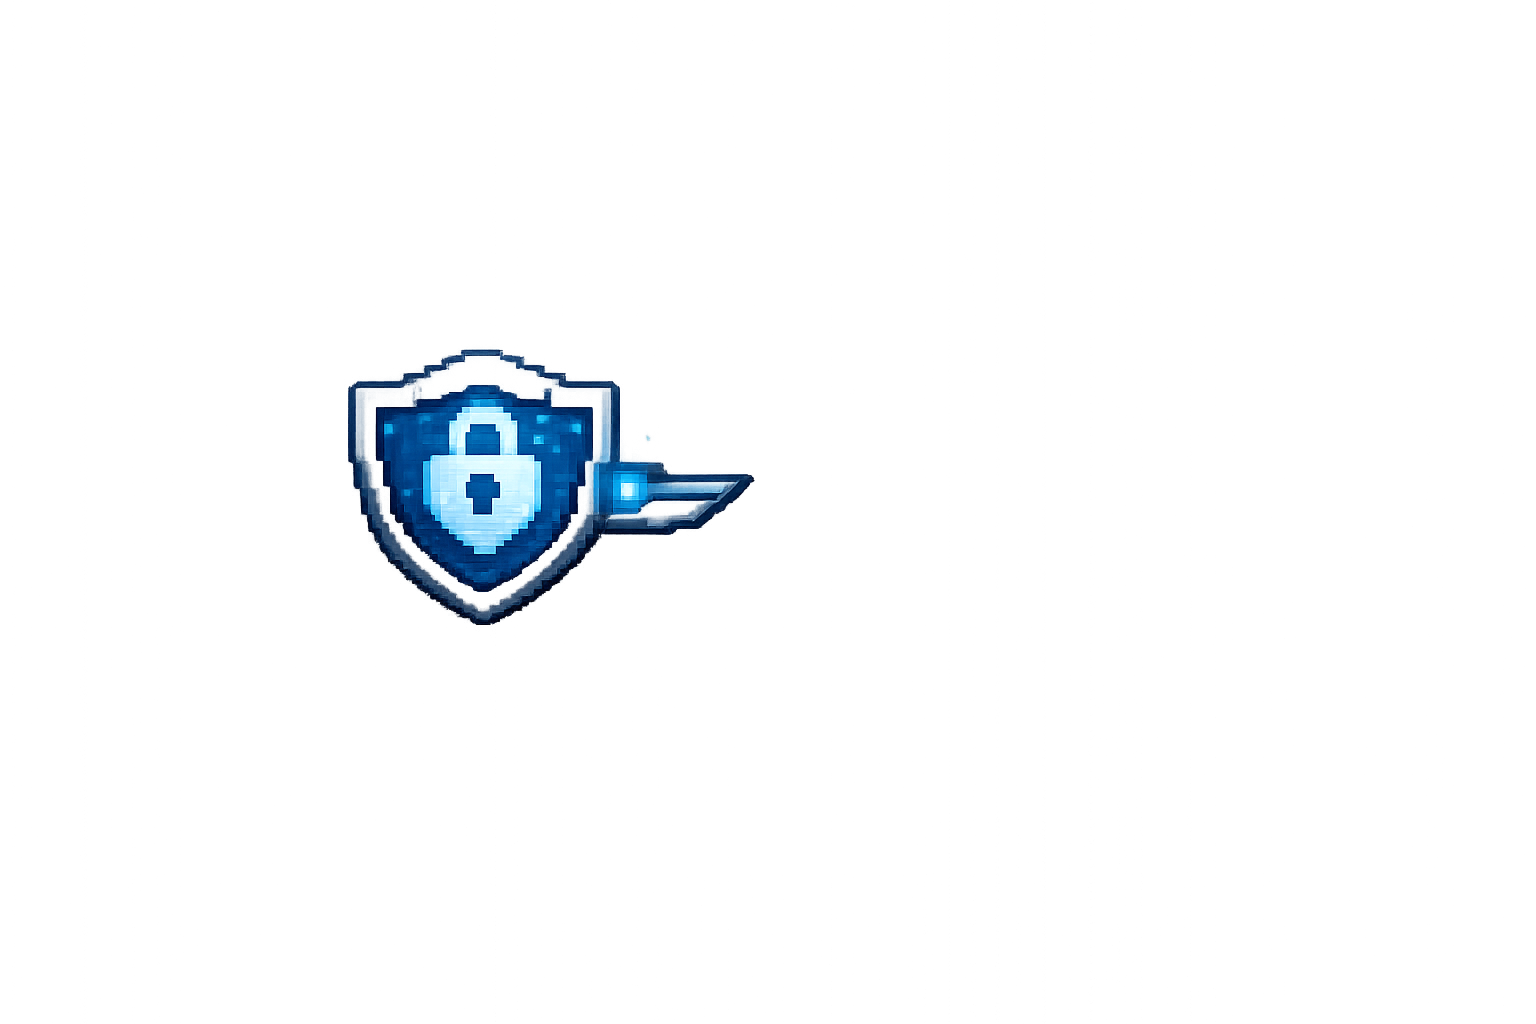
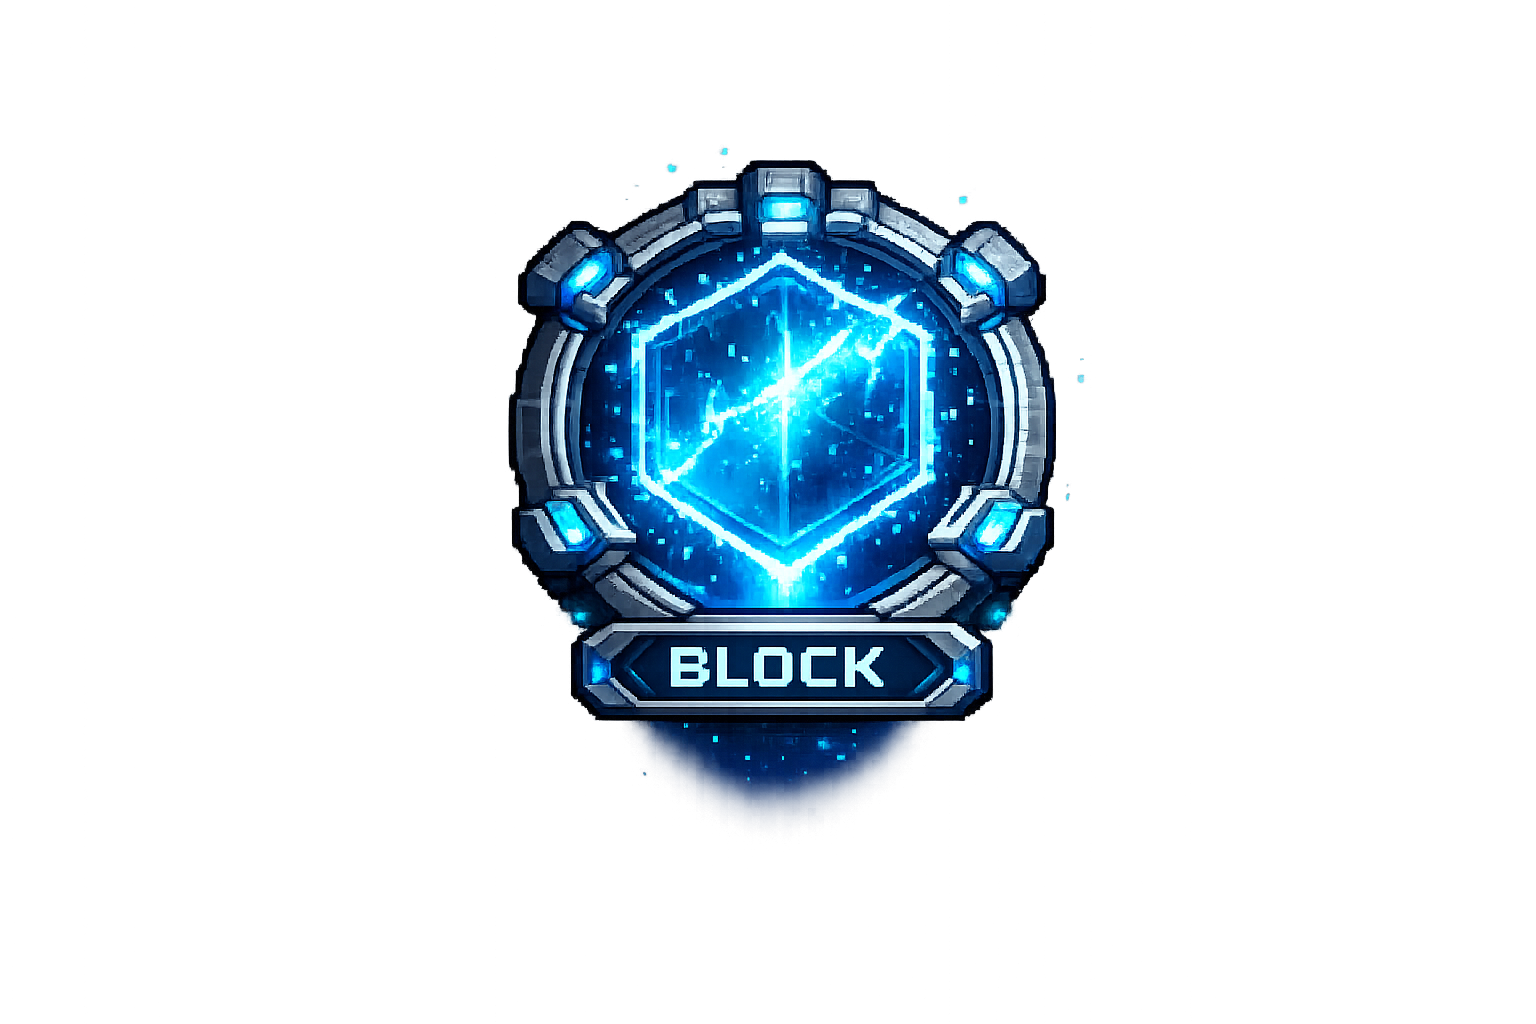
abilties fixed position and images

Changed region(s): [[0.2188, 0.1562, 0.6875, 0.8125]]

diff --git a/src/js/ui.js b/src/js/ui.js
@@ -46,8 +46,8 @@ export class UI extends ScreenElement {
     blockSprite.scale = new Vector(0.15, 0.15);
 
     const blockIcon = new ScreenElement({
-      x: engine.drawWidth - 300,
-      y: engine.drawHeight - 100,
+      x: engine.drawWidth - 200,
+      y: engine.drawHeight - 110,
     });
     blockIcon.graphics.use(blockSprite);
     this.addChild(blockIcon);
@@ -56,8 +56,8 @@ export class UI extends ScreenElement {
     warpSprite.scale = new Vector(0.15, 0.15);
 
     const warpIcon = new ScreenElement({
-      x: engine.drawWidth - 200,
-      y: engine.drawHeight - 100,
+      x: engine.drawWidth - 300,
+      y: engine.drawHeight - 110,
     });
     warpIcon.graphics.use(warpSprite);
     this.addChild(warpIcon);
@@ -67,8 +67,8 @@ export class UI extends ScreenElement {
     superJumpSprite.scale = new Vector(0.15, 0.15);
 
     const superJumpIcon = new ScreenElement({
-      x: engine.drawWidth - 100,
-      y: engine.drawHeight - 100,
+      x: engine.drawWidth - 400,
+      y: engine.drawHeight - 110,
     });
     superJumpIcon.graphics.use(superJumpSprite);
     this.addChild(superJumpIcon);